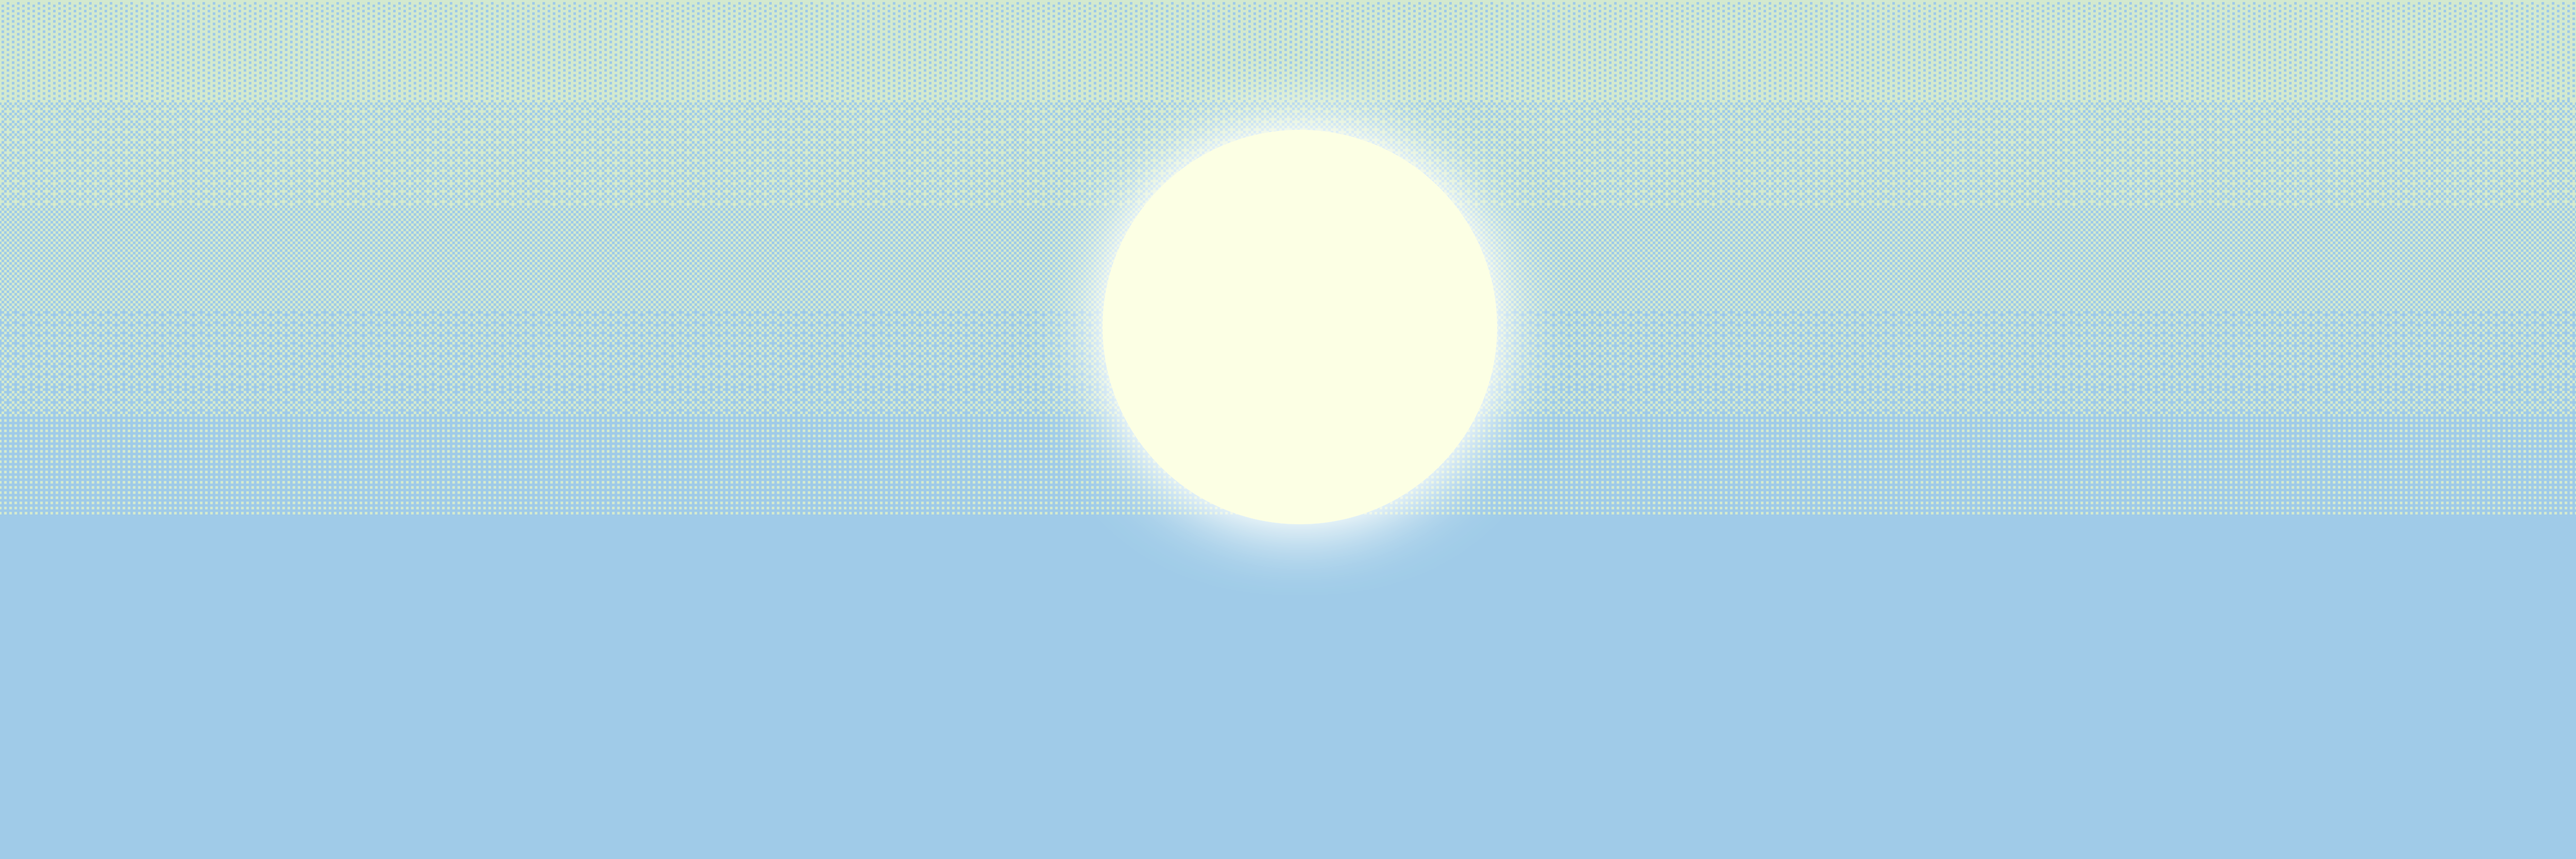
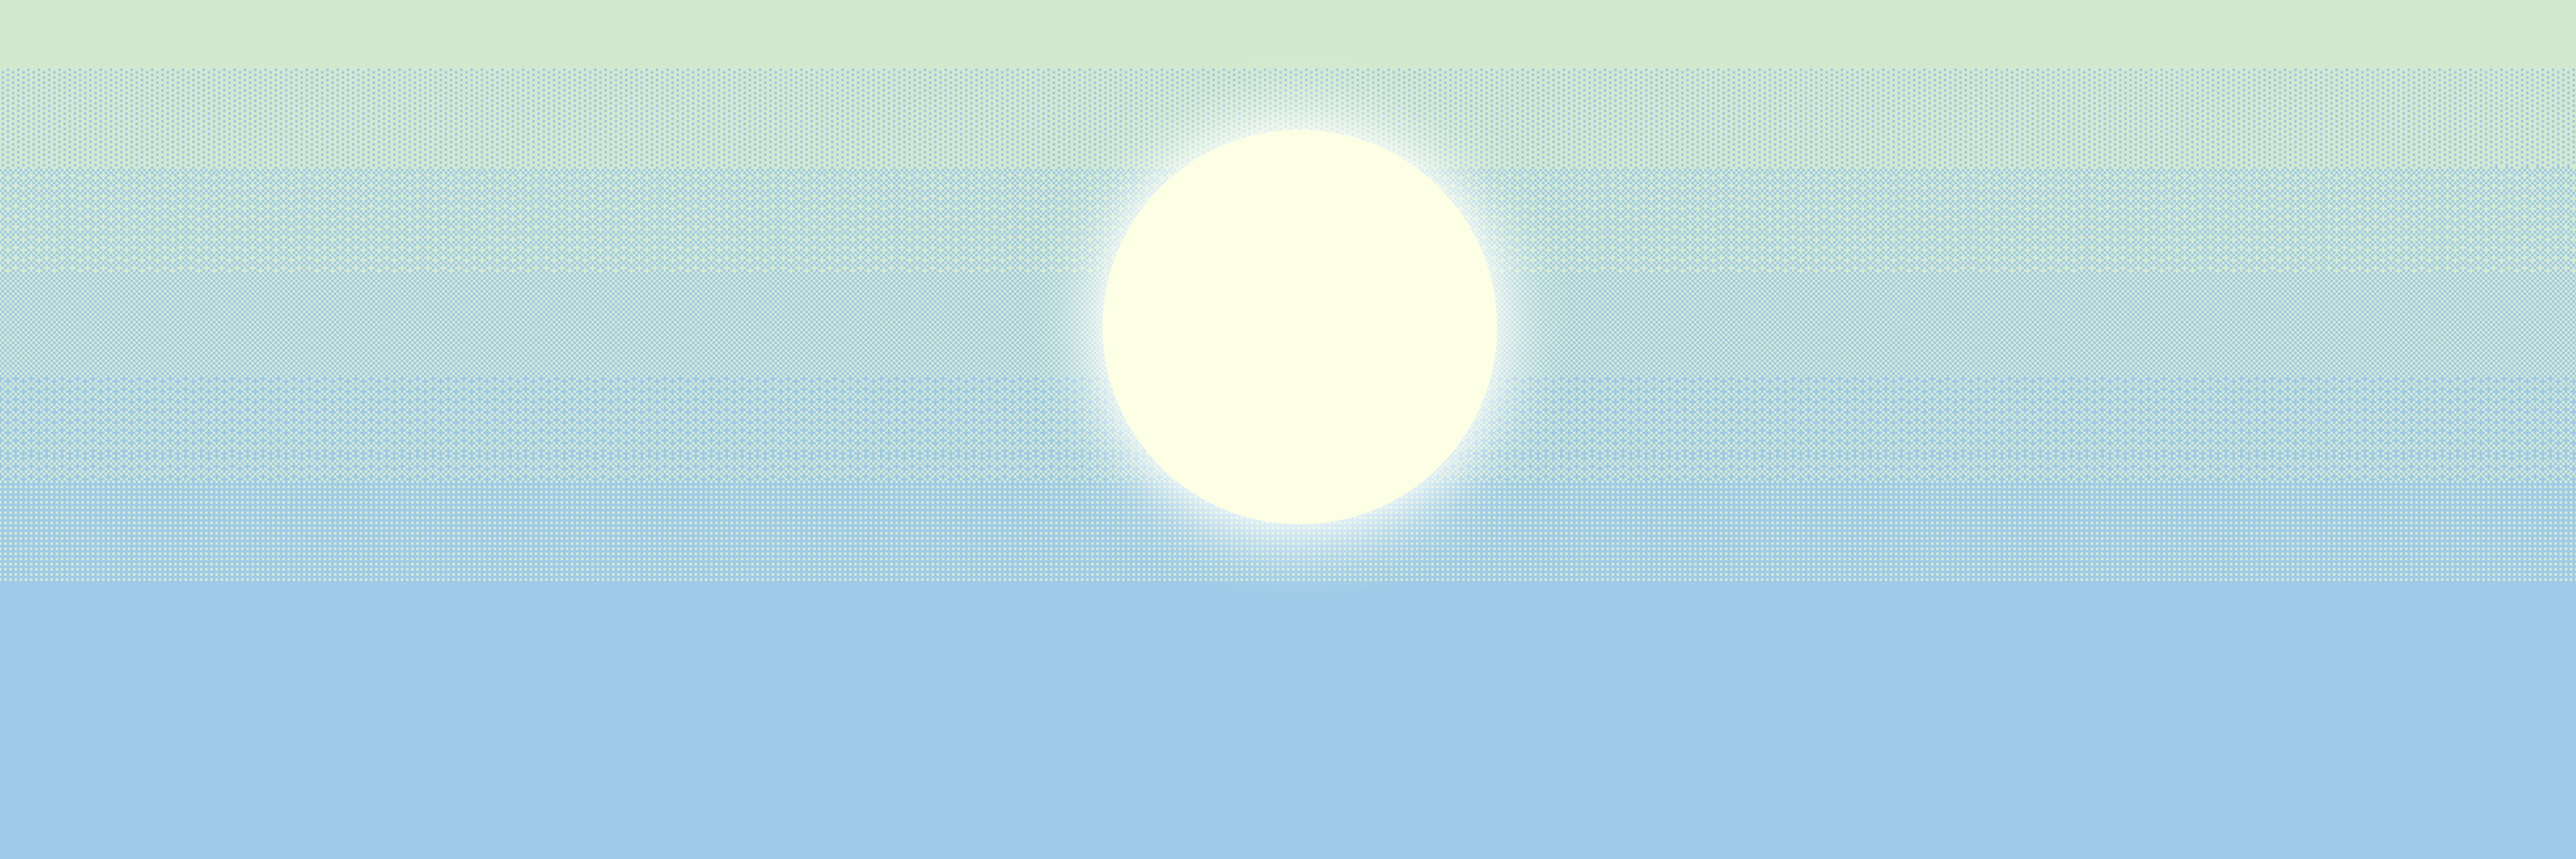
bg fixed

Changed region(s): [[0.0, 0.0, 1.0, 0.5612], [0.0, 0.5923, 1.0, 0.6859]]

diff --git a/Background.js b/Background.js
@@ -14,7 +14,7 @@ class StaticBackground extends PIXI.Sprite {
     constructor(arg) {
         super(resources[arg].texture);
 
-        this.anchor.set(0.5-(0.5*app.renderer.width/this.width), 0);
+        this.anchor.set(0.2, 0);
 
         this.initProportion = this.width / this.height;
         this.height = app.renderer.height;
